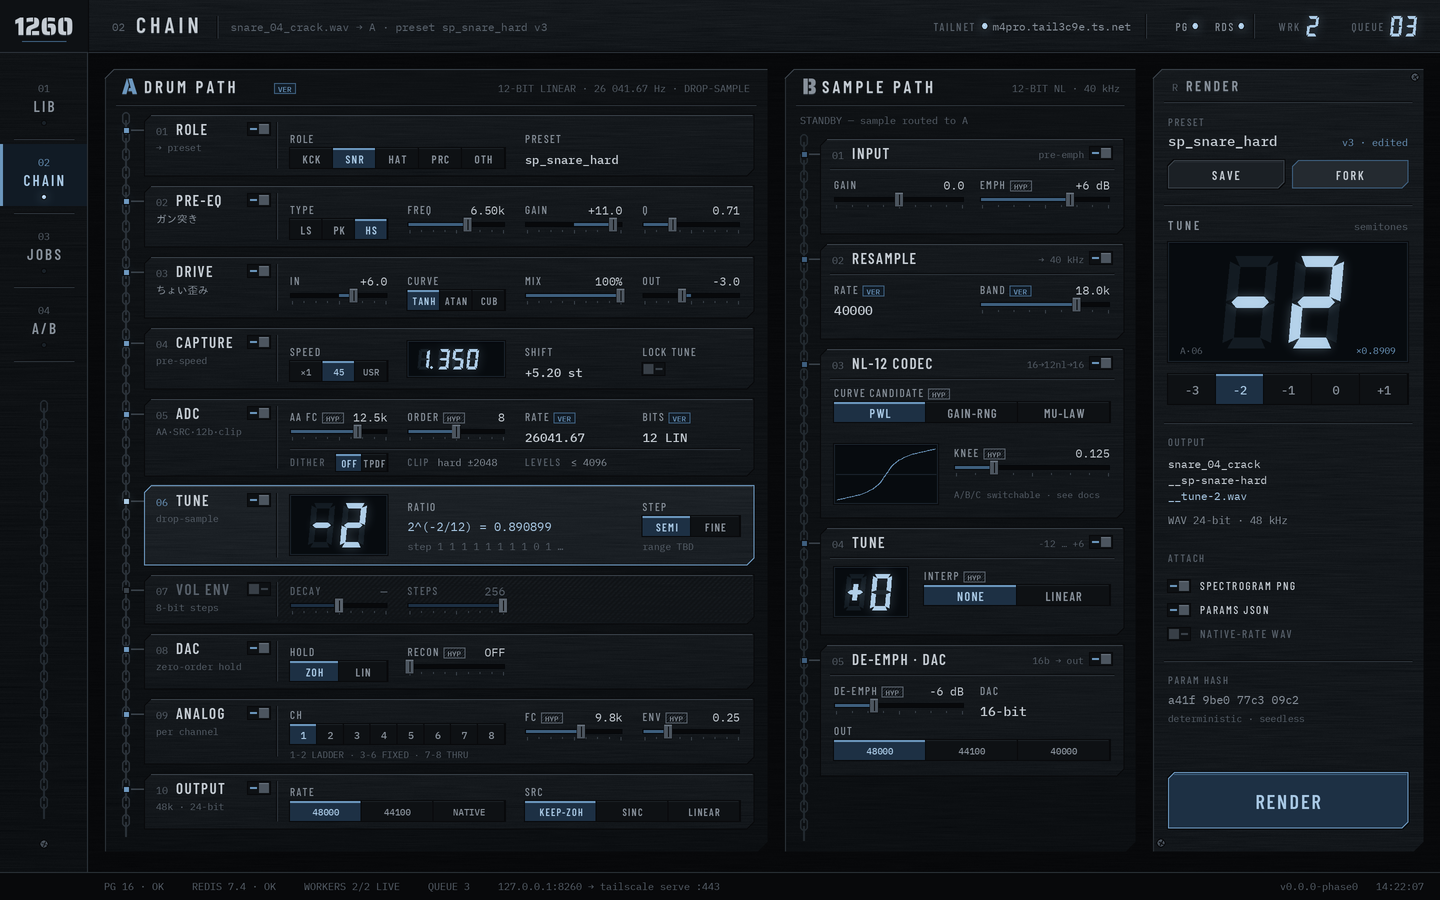
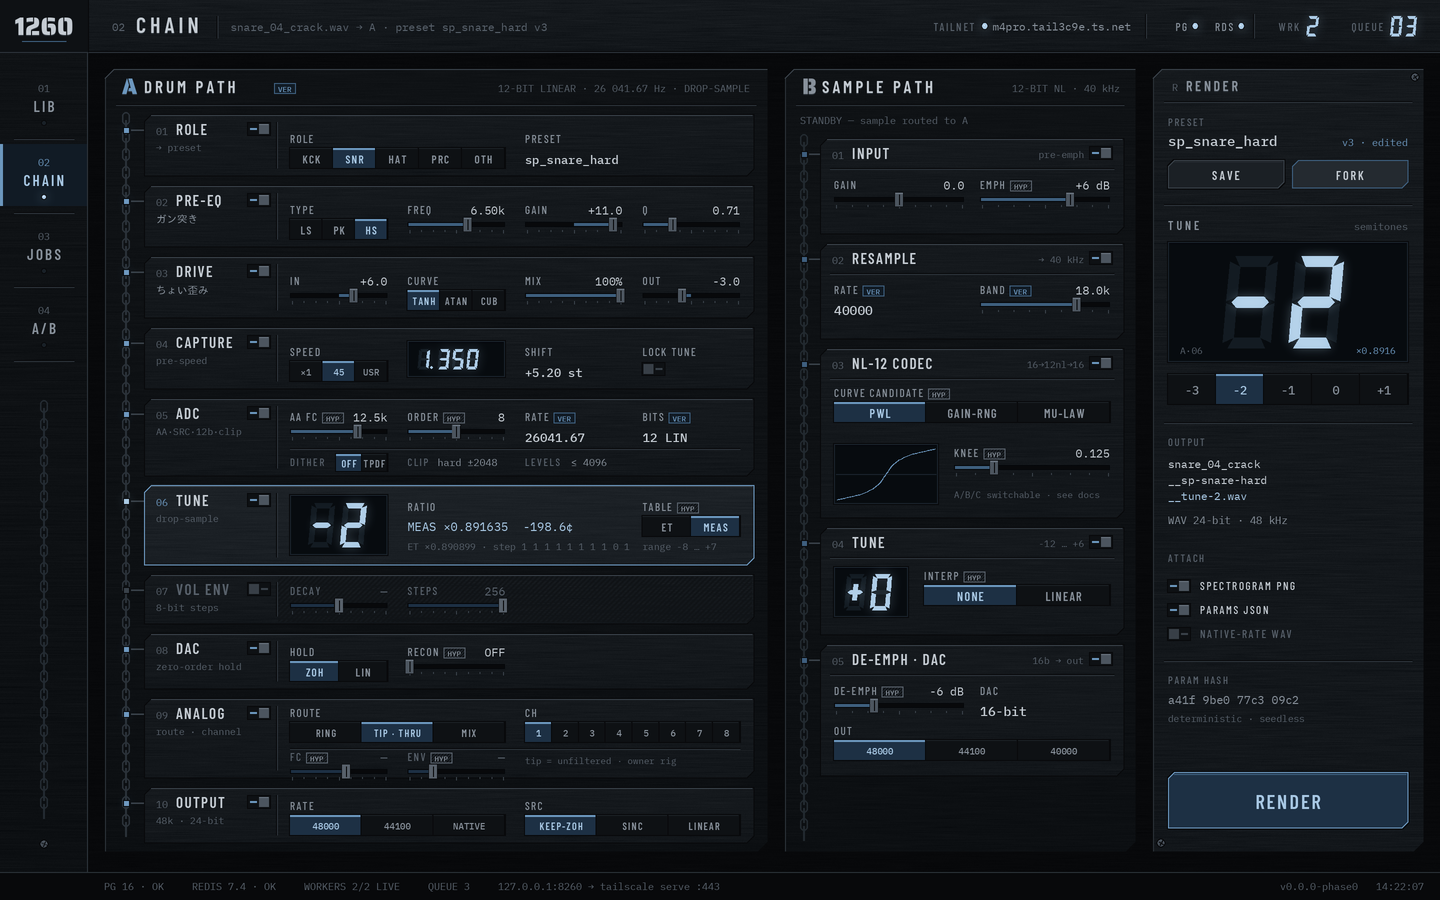
Phase 0 close: apply approved design changes to mockups and design.md
- 06 TUNE: ratio table ET / MEAS (default MEAS), range -8..+7
- 09 ANALOG: route RING / TIP / MIX (default TIP), filter params dim on TIP
- A/B and iPhone LISTEN: SOLO / PAIR
- CLAUDE.md: Phase 0 complete, Phase 1 on OrbStack

Claude-Session: https://claude.ai/code/session_014A4ZM866NZCnu96NFtvDXp

diff --git a/design/render_mockups.py b/design/render_mockups.py
@@ -1040,10 +1040,10 @@ def screen_chain():
     c.lcd_window(col(0), y0 + 10, cw, 60)
     c.seg7(col(0) + 18, y0 + 18, 44, "-2")
     c.label(col(1), y0 + 26, "RATIO", 11, T["tx_md"], tracking=1.4)
-    c.mono(col(1), y0 + 46, "2^(-2/12) = 0.890899", 12, T["ac_hi"])
-    c.mono(col(1), y0 + 65, "step 1 1 1 1 1 1 1 1 0 1 …", 10, T["tx_lo"])
-    seg_field(c, col(3), y0 + 17, cw, "STEP", ["SEMI", "FINE"], 0)
-    c.mono(col(3), y0 + 65, "range TBD", 9.5, T["tx_lo"])
+    c.mono(col(1), y0 + 46, "MEAS ×0.891635  -198.6¢", 12, T["ac_hi"])
+    c.mono(col(1), y0 + 65, "ET ×0.890899 · step 1 1 1 1 1 1 1 1 0 1", 9.5, T["tx_lo"])
+    seg_field(c, col(3), y0 + 17, cw, "TABLE", ["ET", "MEAS"], 1, tag="HYP")
+    c.mono(col(3), y0 + 65, "range -8 … +7", 9.5, T["tx_lo"])
 
     y0 = nxt(50)
     stage_box(c, sx, y0, sw, 50, "07", "VOL ENV", "8-bit steps", on=False, spine_x=spine)
@@ -1055,12 +1055,14 @@ def screen_chain():
     seg_field(c, col(0), y0 + 14, cw, "HOLD", ["ZOH", "LIN"], 0)
     c.slider(col(1), y0 + 14, cw, "RECON", "OFF", 0.0, tag="HYP")
 
-    y0 = nxt(66)
-    stage_box(c, sx, y0, sw, 66, "09", "ANALOG", "per channel", spine_x=spine)
-    seg_field(c, col(0), y0 + 12, span2, "CH", [str(i) for i in range(1, 9)], 0, mono=True)
-    c.mono(col(0), y0 + 60, "1-2 LADDER · 3-6 FIXED · 7-8 THRU", 9, T["tx_lo"])
-    c.slider(col(2), y0 + 14, cw, "FC", "9.8k", 0.58, tag="HYP")
-    c.slider(col(3), y0 + 14, cw, "ENV", "0.25", 0.25, tag="HYP")
+    y0 = nxt(80)
+    stage_box(c, sx, y0, sw, 80, "09", "ANALOG", "route · channel", spine_x=spine)
+    seg_field(c, col(0), y0 + 10, span2, "ROUTE", ["RING", "TIP · THRU", "MIX"], 1, size=10)
+    seg_field(c, col(2), y0 + 10, span2, "CH", [str(i) for i in range(1, 9)], 0, mono=True, size=10)
+    c.hline_engraved(px0, y0 + 50, pw)
+    c.slider(col(0), y0 + 54, cw, "FC", "—", 0.58, tag="HYP", dim=True)
+    c.slider(col(1), y0 + 54, cw, "ENV", "—", 0.25, tag="HYP", dim=True)
+    c.mono(col(2), y0 + 66, "tip = unfiltered · owner rig", 9, T["tx_lo"])
 
     y0 = nxt(56)
     stage_box(c, sx, y0, sw, 56, "10", "OUTPUT", "48k · 24-bit", spine_x=spine)
@@ -1146,7 +1148,7 @@ def screen_chain():
     c.lcd_window(ix + 16, 242, iw - 32, 120)
     c.seg7(ix + 70, 256, 92, "-2", gap=18)
     c.mono(ix + 28, 354, "A·06", 9.5, T["tx_lo"])
-    c.mono(ix + iw - 28, 354, "×0.8909", 9.5, T["ac"], anchor="rs")
+    c.mono(ix + iw - 28, 354, "×0.8916", 9.5, T["ac"], anchor="rs")
     c.seg(ix + 16, 374, iw - 32, 30, ["-3", "-2", "-1", "0", "+1"], 1, size=13, mono=True)
     c.hline_engraved(ix + 12, 422, iw - 24)
     c.label(ix + 16, 446, "OUTPUT", 10.5, T["tx_lo"])
@@ -1424,6 +1426,8 @@ def screen_ab():
 
     # waveform overlay
     c.panel(104, 156, 1036, 214, "WAVEFORM", "1", tone="bg1", amp=1.3)
+    c.mono(1124 - 150, 179, "+ B loop_rhodes_92", 10, T["tx_lo"], anchor="rs")
+    c.seg(1124 - 140, 166, 120, 18, ["SOLO", "PAIR"], 1, size=10)
     c.lcd_window(118, 200, 1008, 152)
     c.waveform(122, 204, 1000, 144, a, hx("#3A4249"), grid=True)
     c.waveform(122, 204, 1000, 144, b, T["ac"], grid=False, center=False, gain=0.92)
@@ -1647,8 +1651,12 @@ def screen_mobile_listen():
     c.mono(W - 16, y + 14, "7f2a", 10.5, T["tx_lo"], anchor="rs")
     c.mono(W - 16, y + 32, "24b · 48k", 10, T["tx_lo"], anchor="rs")
 
+    # solo / pair: drums (A) alone, or together with the routed B sample
+    c.seg(16, y + 46, 150, 24, ["SOLO", "PAIR"], 1, size=11)
+    c.mono(W - 16, y + 62, "+ B loop_rhodes_92", 10, T["tx_lo"], anchor="rs")
+
     # waveform + playhead (drag to scrub)
-    wy = y + 48
+    wy = y + 84
     c.lcd_window(16, wy, W - 32, 128)
     c.waveform(20, wy + 4, W - 40, 120, src, hx("#3A4249"))
     c.waveform(20, wy + 4, W - 40, 120, ren, T["ac"], grid=False, center=False, gain=0.92)
@@ -1681,7 +1689,7 @@ def screen_mobile_listen():
     c.lcd_window(100, ty, W - 116, 34)
     c.seg7(110, ty + 7, 20, "-2", gap=4)
     c.label(160, ty + 23, "TUNE", 10, T["tx_lo"])
-    c.mono(W - 26, ty + 23, "×0.8909", 10.5, T["ac"], anchor="rs")
+    c.mono(W - 26, ty + 23, "MEAS ×0.8916", 10.5, T["ac"], anchor="rs")
     c.button(100, ty + 42, 80, 30, "LOOP", "primary", size=11)
     c.button(188, ty + 42, W - 204, 30, "MATCH -14 LUFS", "normal", size=11)
 

diff --git a/design.md b/design.md
@@ -270,15 +270,15 @@ A（664）、B（352）、RENDER（272）の 3 カラム。
 | 03 | DRIVE（和文「ちょい歪み」） | IN、CURVE（TANH/ATAN/CUB）、MIX、OUT |
 | 04 | CAPTURE | SPEED（×1/45/USR）、7 セグの倍率、SHIFT、LOCK TUNE |
 | 05 | ADC | AA FC [HYP]、ORDER [HYP]、RATE [VER]、BITS [VER]。下段に DITHER、CLIP、LEVELS |
-| 06 | TUNE（選択中の見本） | 7 セグ、RATIO、step パターン、STEP |
+| 06 | TUNE（選択中の見本） | 7 セグ、RATIO（選んだ表の倍率とセント、下段に ET の値と step パターン）、TABLE（ET / MEAS）[HYP]、範囲 -8 … +7 |
 | 07 | VOL ENV（バイパスの見本） | DECAY、STEPS |
 | 08 | DAC | HOLD（ZOH/LIN）、RECON [HYP] |
-| 09 | ANALOG | CH 1–8、`1-2 LADDER · 3-6 FIXED · 7-8 THRU`、FC [HYP]、ENV [HYP] |
+| 09 | ANALOG | ROUTE（RING / TIP · THRU / MIX、既定値 TIP）、CH 1–8、下段に FC [HYP]・ENV [HYP]。TIP のときは FC と ENV を dim |
 | 10 | OUTPUT | RATE（48000/44100/NATIVE）、SRC（KEEP-ZOH/SINC/LINEAR） |
 
 **B：SAMPLE PATH**。見出しは Stencil の「B」（`--tx-md`）。サンプルが A に送られているときは `STANDBY — sample routed to A` と出す。段は 01 INPUT、02 RESAMPLE、03 NL-12 CODEC（候補 PWL / GAIN-RNG / MU-LAW、遷移曲線の小窓、KNEE）、04 TUNE（-12〜+6、INTERP NONE/LINEAR）、05 DE-EMPH・DAC。
 
-**RENDER**。PRESET（SAVE／FORK）、大きい TUNE の 7 セグ（高さ 92）と倍率、-3〜+1 のクイック選択、OUTPUT のファイル名を 3 行に分けて表示（最後の行を `--ac-hi`）、ATTACH のトグル 3 つ、PARAM HASH、`RENDER`（primary、高さ 56）。
+**RENDER**。PRESET（SAVE／FORK）、大きい TUNE の 7 セグ（高さ 92）と倍率（選んだ表の値）、-3〜+1 のクイック選択、OUTPUT のファイル名を 3 行に分けて表示（最後の行を `--ac-hi`）、ATTACH のトグル 3 つ、PARAM HASH、`RENDER`（primary、高さ 56）。
 
 ### 6.3 JOBS
 
@@ -290,7 +290,7 @@ A（664）、B（352）、RENDER（272）の 3 カラム。
 
 ### 6.4 A/B
 
-上段のトランスポートに A/B ロッカー、再生と停止（図形で描き、絵文字は使わない）、LOOP、位置の 7 セグ、LEVEL MATCH（LUFS）、A/B のメーター（32 セル）、PEAK。中段は重ねた波形（1036）。下段はスペクトルを A と B で左右に並べ、B には 13.02k の破線と「ZOH IMAGES」の括弧を入れる。右カラム（268）は DELTA 表（A / B / Δ）、PARAMS.JSON（HYP 行は `--tx-lo`）、FILES、`DRAG OUT`（primary）。
+上段のトランスポートに A/B ロッカー、再生と停止（図形で描き、絵文字は使わない）、LOOP、位置の 7 セグ、LEVEL MATCH（LUFS）、A/B のメーター（32 セル）、PEAK。中段は重ねた波形（1036）。見出しの右に SOLO / PAIR の切替と、PAIR で重ねる B 側のサンプル名を置く。下段はスペクトルを A と B で左右に並べ、B には 13.02k の破線と「ZOH IMAGES」の括弧を入れる。右カラム（268）は DELTA 表（A / B / Δ）、PARAMS.JSON（HYP 行は `--tx-lo`）、FILES、`DRAG OUT`（primary）。
 
 ### 6.5 iPhone：JOBS（390×844）
 
@@ -298,7 +298,7 @@ A（664）、B（352）、RENDER（272）の 3 カラム。
 
 ### 6.6 iPhone：LISTEN（390×844）
 
-ファイル名（2 行）、波形（指でなぞって位置移動、再生済み部分を被せ表示）、時刻、全幅の A/B ロッカー、再生と一時停止（72×72、primary）、TUNE の 7 セグと倍率、LOOP、MATCH、同じサンプルの書き出し一覧（再生アイコン、TUNE、プリセット、長さ）。
+ファイル名（2 行）、SOLO / PAIR の切替（PAIR のときは右に B 側のサンプル名）、波形（指でなぞって位置移動、再生済み部分を被せ表示）、時刻、全幅の A/B ロッカー、再生と一時停止（72×72、primary）、TUNE の 7 セグと倍率、LOOP、MATCH、同じサンプルの書き出し一覧（再生アイコン、TUNE、プリセット、長さ）。
 
 ---
 
@@ -344,10 +344,9 @@ A（664）、B（352）、RENDER（272）の 3 カラム。
 
 ---
 
-## 12. 未決：承認待ちの差分
+## 12. 変更履歴
 
-モックの承認後に、調査（`docs/research.md`）から出てきた変更案。**承認されるまで実装しない。** 承認されたら、モックとこの文書の両方を更新する。
-
-1. **06 TUNE に比率表の切替を足す。** `RATIO` の下に `TABLE  ET / MEAS [HYP]` の 2 択を置く。ET は 2^(n/12)、MEAS は実機の測定値の表（−1 ≈ −95 cents）。
-2. **09 ANALOG に出力経路の切替を足す。** `ROUTE  RING (FILTERED) / TIP (THRU) / MIX` の 3 択。オーナーの機材の観察に合わせて、既定値は `TIP`。
-3. **LISTEN に「組で聴く」モードを足す。** A 経路のドラムと B 経路の上ネタを同時に鳴らし、両方の A/B をまとめて切り替える。
+- 2026-10-06：モック承認後の 3 案を承認。モックと本文に反映した。
+  1. 06 TUNE に比率表の切替を追加した（ET = 2^(n/12)／MEAS = 実機の測定値の表、HYP）。既定値は MEAS。
+  2. 09 ANALOG に出力経路の切替を追加した（RING = フィルタあり／TIP = フィルタ無し／MIX）。既定値は TIP（オーナーの機材の観察から）。
+  3. LISTEN（iPhone）と A/B（デスクトップ）に SOLO / PAIR を追加した。PAIR は A 経路のドラムと B 経路の上ネタを同時に鳴らし、A/B の切替は両方に効く。

diff --git a/CLAUDE.md b/CLAUDE.md
@@ -21,7 +21,7 @@ SP-1200 でサンプリング（キックは low、スネアは Hi を EQ で強
 
 各フェーズの終わりに「何をしたか／何が未確定か／次に何をするか」を短く報告する。
 
-**現在地：Phase 0 — モック承認済み（2026-10-06）。`design.md` を提示し、オーナー承認待ち。承認まで Phase 1 に進まない。**
+**現在地：Phase 1（骨組み）。Phase 0 は完了（モックと design.md を 2026-10-06 に承認）。Postgres/Redis は OrbStack（Docker Compose）で動かす。**
 
 ---
 
